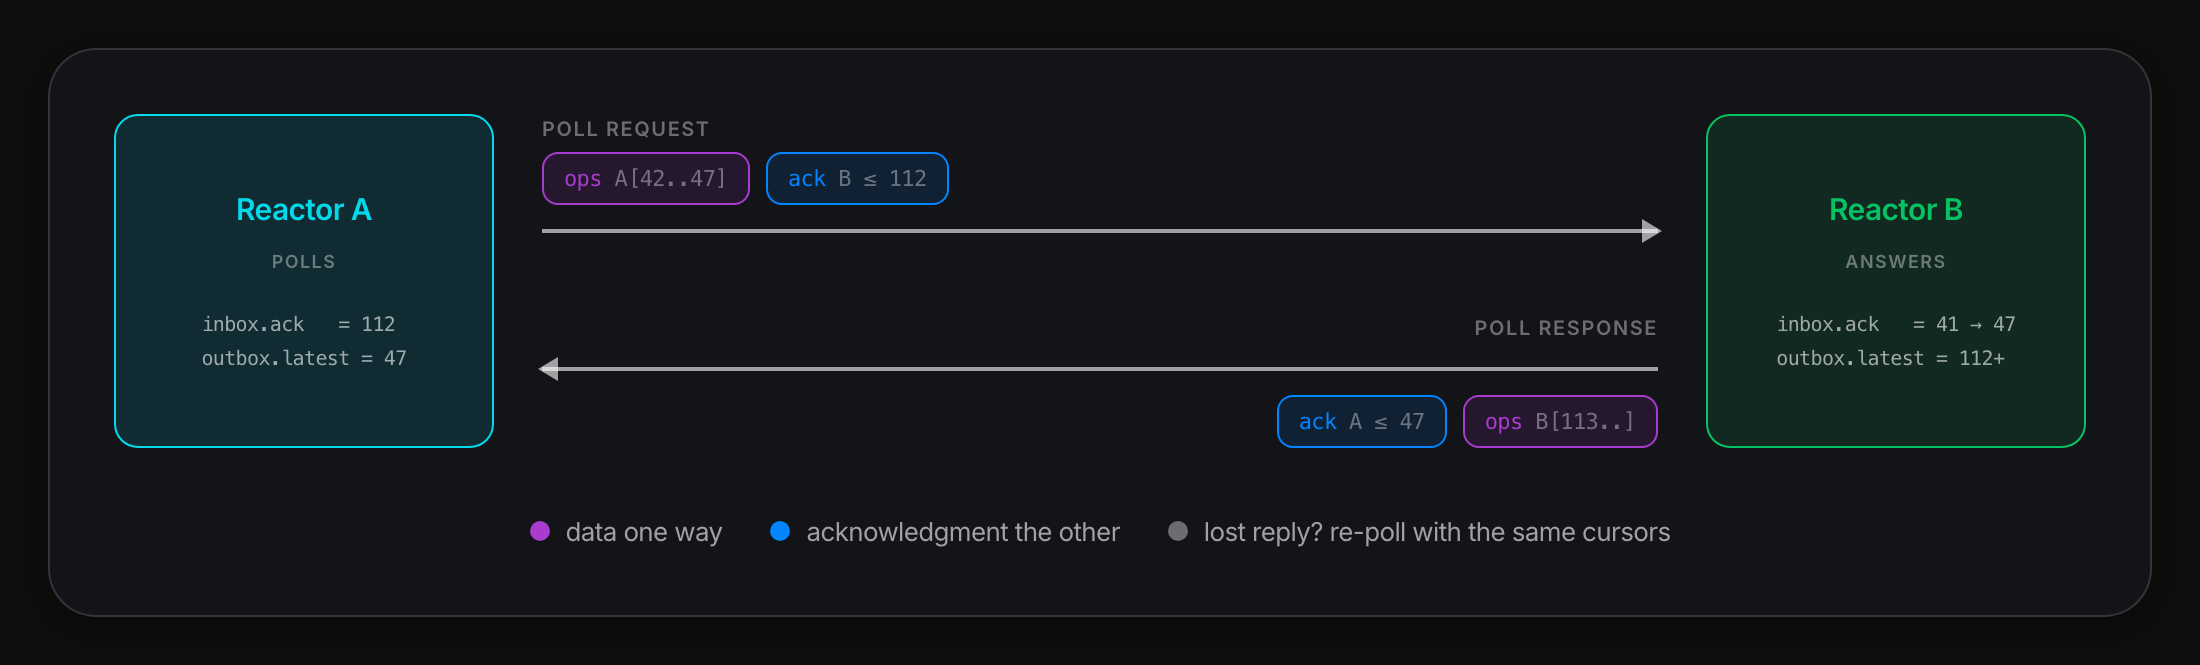
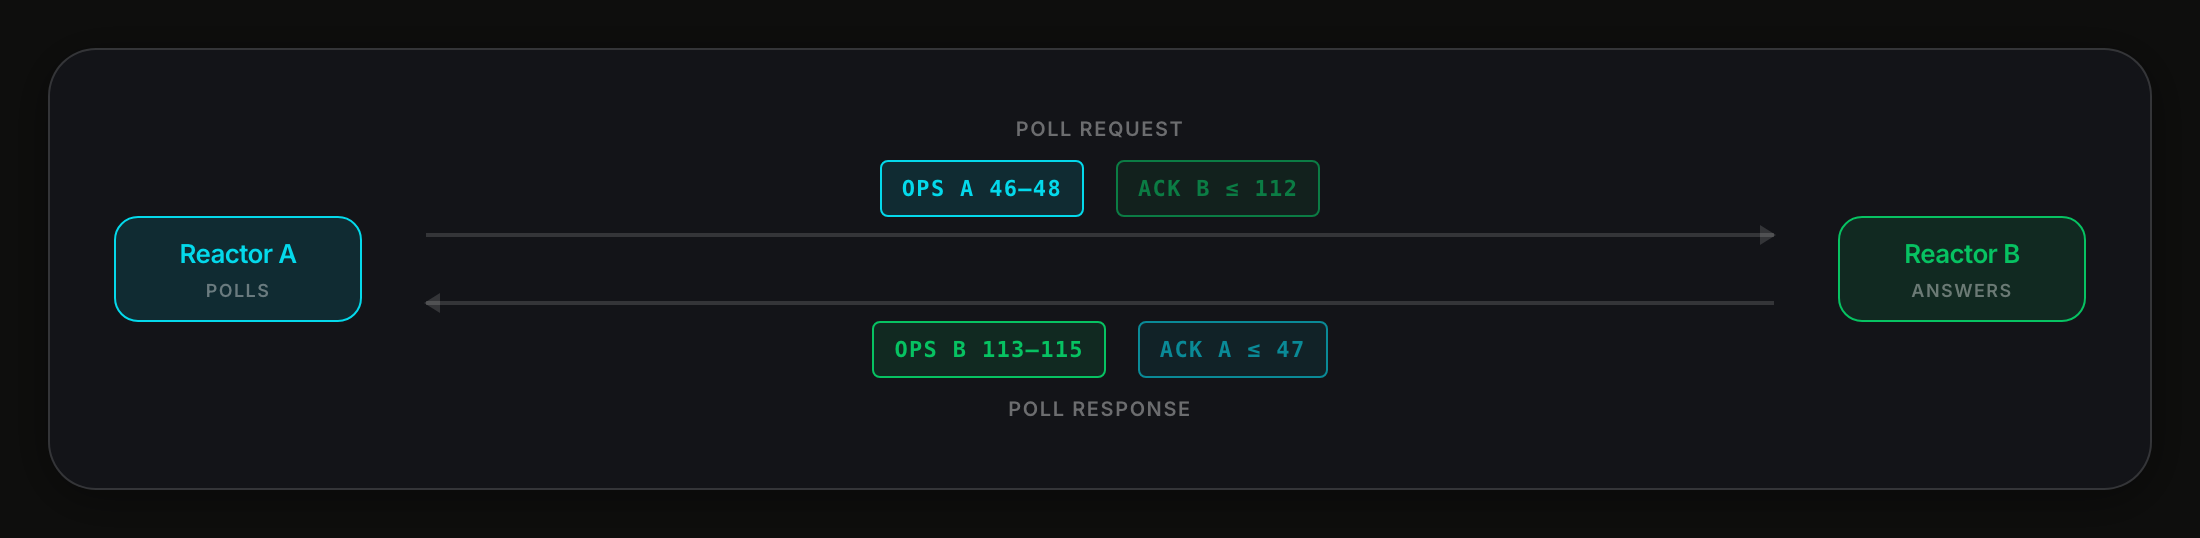
rebuild: poll-piggyback-acks redone in the sync-cursors style

diff --git a/diagrams/pages/poll-piggyback-acks.html b/diagrams/pages/poll-piggyback-acks.html
@@ -9,157 +9,129 @@
   <link rel="stylesheet" href="../css/base.css">
   <link rel="stylesheet" href="../css/components.css">
   <style>
+    /* Two messages, one each way. Each carries operations in its own direction and an
+       acknowledgement of the other side's operations coming back — so every row holds one
+       cyan chip and one green chip, and which is which swaps between the rows. That swap is
+       the whole point of the slide.
+
+       A's ordinals are in the 40s and B's in the 110s because they are separate ordinal
+       spaces; an ack always names the other reactor's numbers.
+
+       Endpoint boxes, pill tags and line treatment match sync-cursors. Everything is placed
+       explicitly. */
     .frame { max-width: 1100px; }
     .card { height: auto; }
     .card-body { flex: none; }
 
-    .lanes {
+    .wrap {
       display: grid;
-      grid-template-columns: 190px 1fr 190px;
-      gap: var(--space-lg);
-      align-items: stretch;
+      grid-template-columns: 124px 1fr 124px;
+      column-gap: var(--space-xl);
+      row-gap: var(--space-xl);
+      align-items: center;
     }
 
-    .actor {
+    .endpoint {
+      grid-row: 1 / 3;
       border: 1px solid var(--border-glass);
       border-radius: var(--radius-md);
+      padding: var(--space-sm) var(--space-md);
+      font-size: 13px;
+      font-weight: var(--font-weight-semibold);
+      text-align: center;
       background: var(--bg-elevated);
-      padding: var(--space-md);
+    }
+    .endpoint.a { grid-column: 1; border-color: var(--accent-cyan);  background: var(--accent-cyan-bg);  color: var(--accent-cyan); }
+    .endpoint.b { grid-column: 3; border-color: var(--accent-green); background: var(--accent-green-bg); color: var(--accent-green); }
+    .endpoint .role {
+      display: block;
+      font-size: 9px;
+      font-weight: var(--font-weight-semibold);
+      letter-spacing: 0.08em;
+      text-transform: uppercase;
+      color: var(--text-muted);
+      margin-top: 2px;
+    }
+
+    .msg {
+      grid-column: 2;
       display: flex;
       flex-direction: column;
-      gap: var(--space-sm);
       align-items: center;
-      justify-content: center;
+      gap: 8px;
     }
-    .actor.accent-cyan  { border-color: var(--accent-cyan);  background: var(--accent-cyan-bg); }
-    .actor.accent-green { border-color: var(--accent-green); background: var(--accent-green-bg); }
-    .actor-name { font-size: 15px; font-weight: var(--font-weight-semibold); }
-    .actor.accent-cyan .actor-name  { color: var(--accent-cyan); }
-    .actor.accent-green .actor-name { color: var(--accent-green); }
-    .actor-role {
-      font-size: 9px; letter-spacing: 0.08em; text-transform: uppercase;
-      color: var(--text-muted); font-weight: var(--font-weight-semibold);
-    }
-    .actor-state {
-      margin-top: var(--space-sm);
-      font-family: var(--font-mono, 'SF Mono', 'Fira Code', monospace);
+    .msg-label {
       font-size: 10px;
-      color: var(--text-secondary);
-      line-height: 1.7;
-      text-align: left;
+      font-weight: var(--font-weight-semibold);
+      letter-spacing: 0.08em;
+      text-transform: uppercase;
+      color: var(--text-muted);
     }
-
-    .messages {
-      display: flex;
-      flex-direction: column;
-      gap: var(--space-xl);
-      justify-content: center;
+    .chips { display: flex; gap: var(--space-md); }
+    .chip {
+      font-size: 11px;
+      font-weight: var(--font-weight-semibold);
+      letter-spacing: 0.06em;
+      text-transform: uppercase;
+      padding: 5px 10px;
+      border-radius: var(--radius-xs);
+      border: 1px solid;
+      white-space: nowrap;
+      font-family: var(--font-mono, 'SF Mono', 'Fira Code', monospace);
     }
-
-    .msg { display: flex; flex-direction: column; gap: var(--space-xs); }
-    .msg-title {
-      font-size: 10px; font-weight: var(--font-weight-semibold);
-      letter-spacing: 0.08em; text-transform: uppercase; color: var(--text-muted);
-    }
-    .msg.right .msg-title { text-align: left; }
-    .msg.left  .msg-title { text-align: right; }
+    .chip.cyan  { color: var(--accent-cyan);  border-color: var(--accent-cyan);  background: var(--accent-cyan-bg); }
+    .chip.green { color: var(--accent-green); border-color: var(--accent-green); background: var(--accent-green-bg); }
+    /* the acknowledgement rides along; the payload is the headline */
+    .chip.ride  { opacity: 0.6; }
 
     .arrow {
       position: relative;
+      width: 100%;
       height: 2px;
-      background: var(--text-secondary);
-      margin: var(--space-sm) 0;
+      background: var(--border-glass);
     }
-    .arrow.right::after {
-      content: ''; position: absolute; right: -2px; top: 50%; transform: translateY(-50%);
-      border-top: 6px solid transparent; border-bottom: 6px solid transparent;
-      border-left: 10px solid var(--text-secondary);
+    .arrow::after {
+      content: '';
+      position: absolute;
+      top: 50%;
+      transform: translateY(-50%);
+      border-top: 5px solid transparent;
+      border-bottom: 5px solid transparent;
     }
-    .arrow.left::before {
-      content: ''; position: absolute; left: -2px; top: 50%; transform: translateY(-50%);
-      border-top: 6px solid transparent; border-bottom: 6px solid transparent;
-      border-right: 10px solid var(--text-secondary);
-    }
-
-    .payload {
-      display: flex;
-      gap: var(--space-sm);
-      flex-wrap: wrap;
-    }
-    .msg.left .payload { justify-content: flex-end; }
-    .chip {
-      font-family: var(--font-mono, 'SF Mono', 'Fira Code', monospace);
-      font-size: 11px;
-      font-weight: var(--font-weight-medium);
-      padding: 4px 10px;
-      border-radius: var(--radius-sm);
-      border: 1px solid var(--border-glass);
-      background: var(--bg-elevated);
-      color: var(--text-primary);
-    }
-    .chip.data { border-color: var(--accent-purple); background: var(--accent-purple-bg); color: var(--accent-purple); }
-    .chip.ack  { border-color: var(--accent-blue);   background: var(--accent-blue-bg);   color: var(--accent-blue); }
-    .chip .k { color: var(--text-muted); }
-
-    .legend {
-      justify-content: center;
-      margin-top: var(--space-xl);
-      margin-bottom: 0;
-    }
-    .legend-dot.purple { background: var(--accent-purple); }
-    .legend-dot.blue   { background: var(--accent-blue); }
+    .arrow.to-b::after { right: -1px; border-left:  8px solid var(--border-glass); }
+    .arrow.to-a::after { left:  -1px; border-right: 8px solid var(--border-glass); }
   </style>
 </head>
 <body>
   <div class="frame">
     <div class="card">
       <div class="card-body">
-        <div class="lanes">
+        <div class="wrap">
 
-          <div class="actor accent-cyan">
-            <div class="actor-name">Reactor A</div>
-            <div class="actor-role">polls</div>
-            <div class="actor-state">
-              inbox.ack&nbsp;&nbsp;&nbsp;= 112<br>
-              outbox.latest = 47
+          <div class="endpoint a">Reactor A<span class="role">polls</span></div>
+
+          <!-- A -> B : A's new operations, plus A's ack of B's -->
+          <div class="msg" style="grid-row: 1;">
+            <div class="msg-label">poll request</div>
+            <div class="chips">
+              <span class="chip cyan">ops A 46&ndash;48</span>
+              <span class="chip green ride">ack B &le; 112</span>
             </div>
+            <div class="arrow to-b"></div>
           </div>
 
-          <div class="messages">
-            <div class="msg right">
-              <div class="msg-title">Poll request</div>
-              <div class="payload">
-                <span class="chip data">ops <span class="k">A[42..47]</span></span>
-                <span class="chip ack">ack <span class="k">B ≤ 112</span></span>
-              </div>
-              <div class="arrow right"></div>
-            </div>
+          <div class="endpoint b">Reactor B<span class="role">answers</span></div>
 
-            <div class="msg left">
-              <div class="msg-title">Poll response</div>
-              <div class="arrow left"></div>
-              <div class="payload">
-                <span class="chip ack">ack <span class="k">A ≤ 47</span></span>
-                <span class="chip data">ops <span class="k">B[113..]</span></span>
-              </div>
+          <!-- B -> A : B's new operations, plus B's ack of A's -->
+          <div class="msg" style="grid-row: 2;">
+            <div class="arrow to-a"></div>
+            <div class="chips">
+              <span class="chip green">ops B 113&ndash;115</span>
+              <span class="chip cyan ride">ack A &le; 47</span>
             </div>
+            <div class="msg-label">poll response</div>
           </div>
 
-          <div class="actor accent-green">
-            <div class="actor-name">Reactor B</div>
-            <div class="actor-role">answers</div>
-            <div class="actor-state">
-              inbox.ack&nbsp;&nbsp;&nbsp;= 41 → 47<br>
-              outbox.latest = 112+
-            </div>
-          </div>
-
-        </div>
-
-        <div class="legend">
-          <div class="legend-item"><span class="legend-dot purple"></span>data one way</div>
-          <div class="legend-item"><span class="legend-dot blue"></span>acknowledgment the other</div>
-          <div class="legend-item"><span class="legend-dot" style="background: var(--text-muted)"></span>lost reply? re-poll with the same cursors</div>
         </div>
       </div>
     </div>
